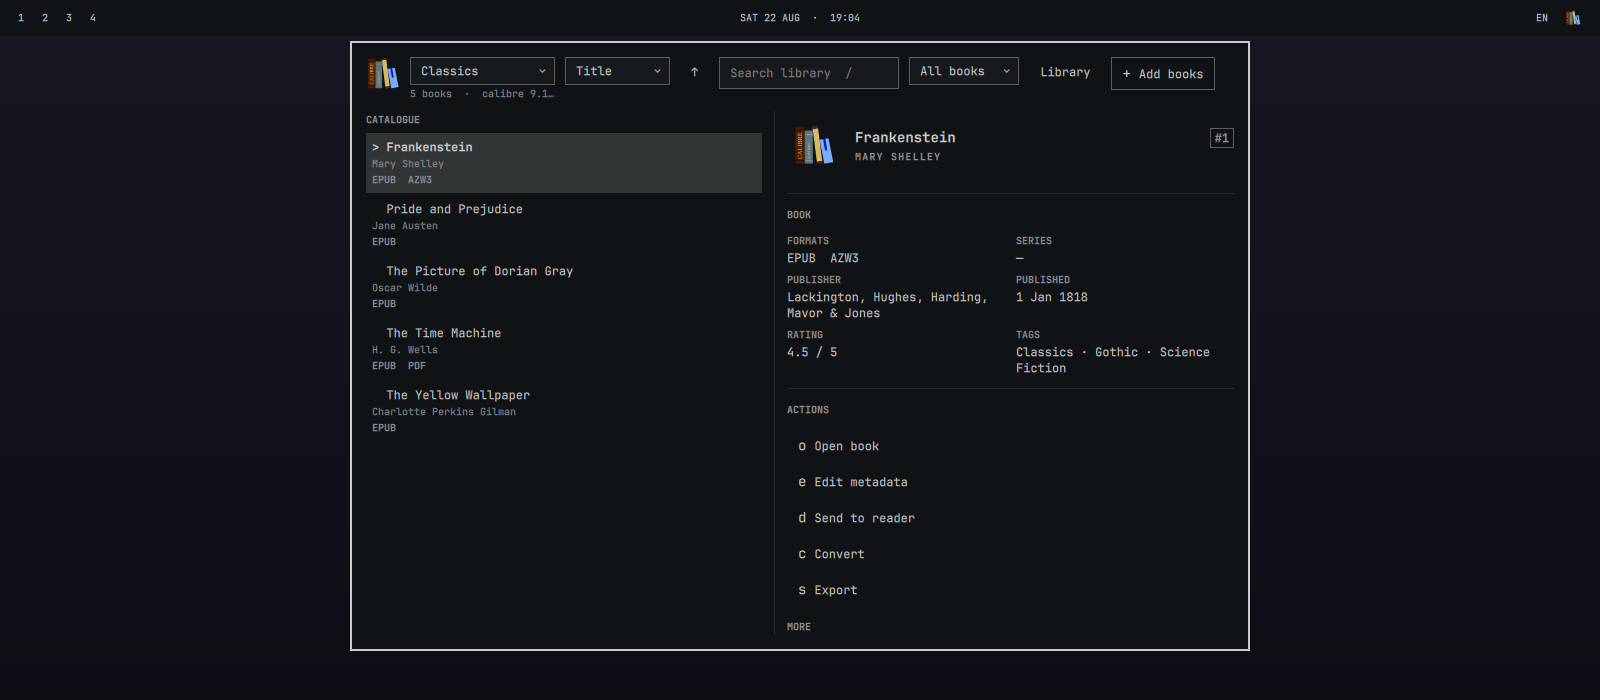
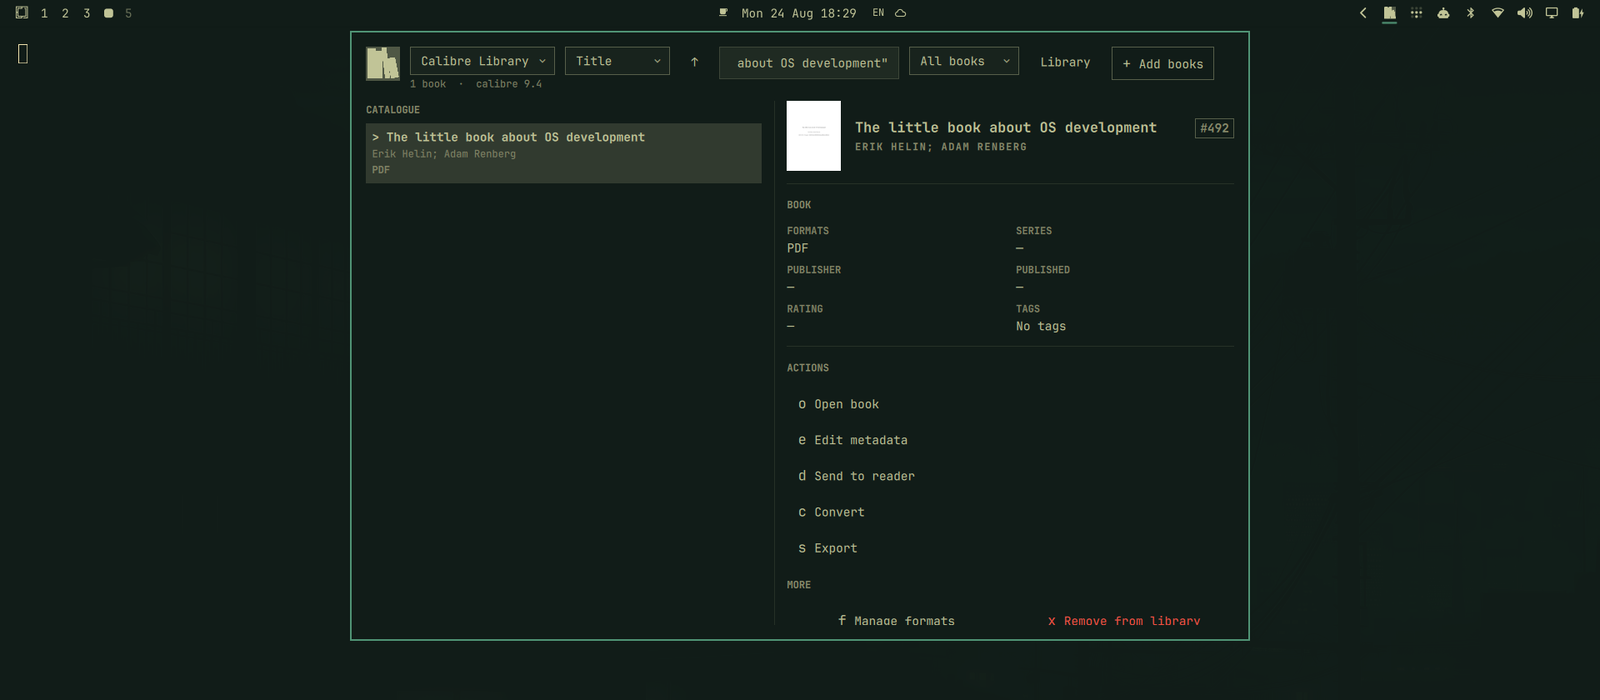
chore: prepare v0.1.1 release

diff --git a/HelpDialog.qml b/HelpDialog.qml
@@ -41,7 +41,7 @@ BorderSurface {
   ]
 
   readonly property var diagnostics: [
-    { label: "Plugin", value: "Calibre 0.1.0" },
+    { label: "Plugin", value: "Calibre 0.1.1" },
     { label: "Calibre", value: calibreVersion || "Not detected" },
     { label: "Status", value: calibreStatus || "Unknown" },
     { label: "Library", value: libraryName || "None selected" },

diff --git a/tests/test_help_dialog_contract.py b/tests/test_help_dialog_contract.py
@@ -1,3 +1,4 @@
+import json
 import unittest
 from pathlib import Path
 
@@ -13,6 +14,11 @@ class HelpDialogContractTest(unittest.TestCase):
     def test_help_uses_native_components_and_calibre_identity(self) -> None:
         for component in ("BorderSurface {", "CalibreIcon {", "PanelSectionHeader {", "PanelSeparator {", "Button {"):
             self.assertIn(component, self.source)
+
+    def test_help_reports_the_manifest_version(self) -> None:
+        manifest = json.loads((ROOT / "manifest.json").read_text())
+
+        self.assertIn(f'Calibre {manifest["version"]}', self.source)
 
     def test_help_exposes_shortcuts_and_runtime_diagnostics(self) -> None:
         for prop in (

diff --git a/tests/test_plugin_contract.py b/tests/test_plugin_contract.py
@@ -16,7 +16,7 @@ class PluginContractTest(unittest.TestCase):
 
         self.assertEqual(manifest["schemaVersion"], 1)
         self.assertEqual(manifest["id"], "io.github.whitehades.calibre")
-        self.assertEqual(manifest["version"], "0.1.0")
+        self.assertEqual(manifest["version"], "0.1.1")
         self.assertEqual(manifest["license"], "MIT")
         self.assertEqual(manifest["kinds"], ["bar-widget"])
         self.assertEqual(manifest["entryPoints"], {"barWidget": "BarWidget.qml"})

diff --git a/CHANGELOG.md b/CHANGELOG.md
@@ -2,6 +2,15 @@
 
 All notable changes to this project are recorded here.
 
+## 0.1.1 - 2026-08-24
+
+### Fixed
+
+- Matched the Calibre icon to Omarchy's bar dimensions and active theme colors.
+- Removed duplicate libraries from the library selector and made it close reliably from its trigger.
+- Corrected panel focus, Escape dismissal, file-picker stacking, and hidden-scrollbar behavior.
+- Allowed library reads while a local Calibre Content server is running; writes ask you to stop the server and retry.
+
 ## 0.1.0 - 2026-08-22
 
 ### Added

diff --git a/README.md b/README.md
@@ -15,6 +15,8 @@
 
 ![Calibre panel in Omarchy Quattro](preview.png)
 
+Preview book: [The little book about OS development](https://littleosbook.github.io/) by Erik Helin and Adam Renberg, licensed under [CC BY-NC-SA 3.0](https://creativecommons.org/licenses/by-nc-sa/3.0/us/).
+
 Calibre for Omarchy puts the everyday parts of Calibre in a native, keyboard-friendly panel. Browse, search, edit, convert, import, export, and send books to a connected reader without opening the Calibre desktop.
 
 ## Features
